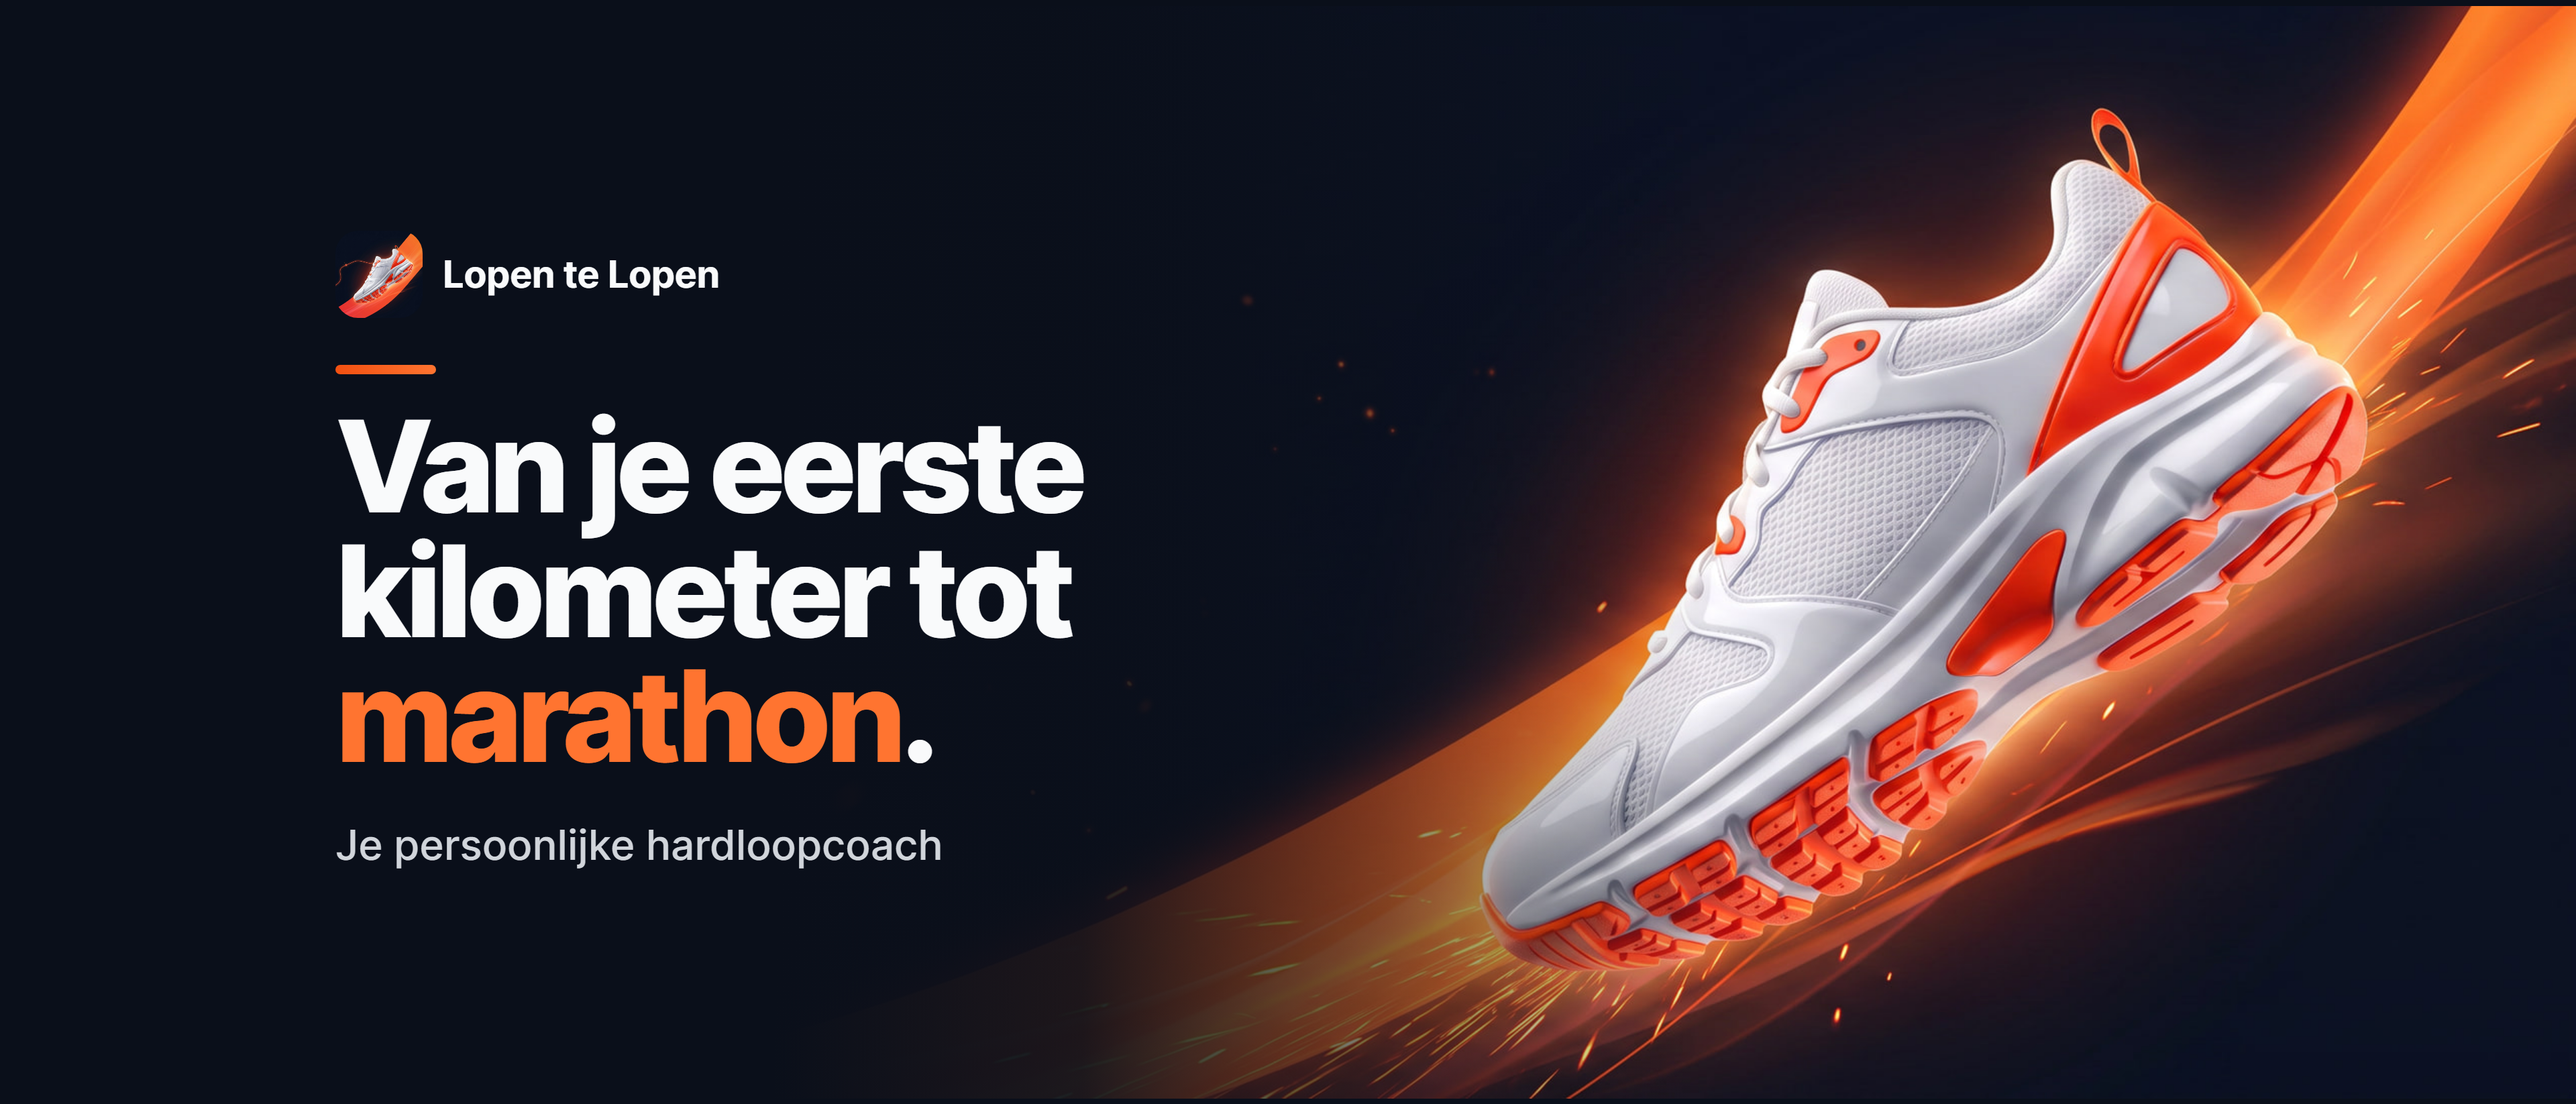
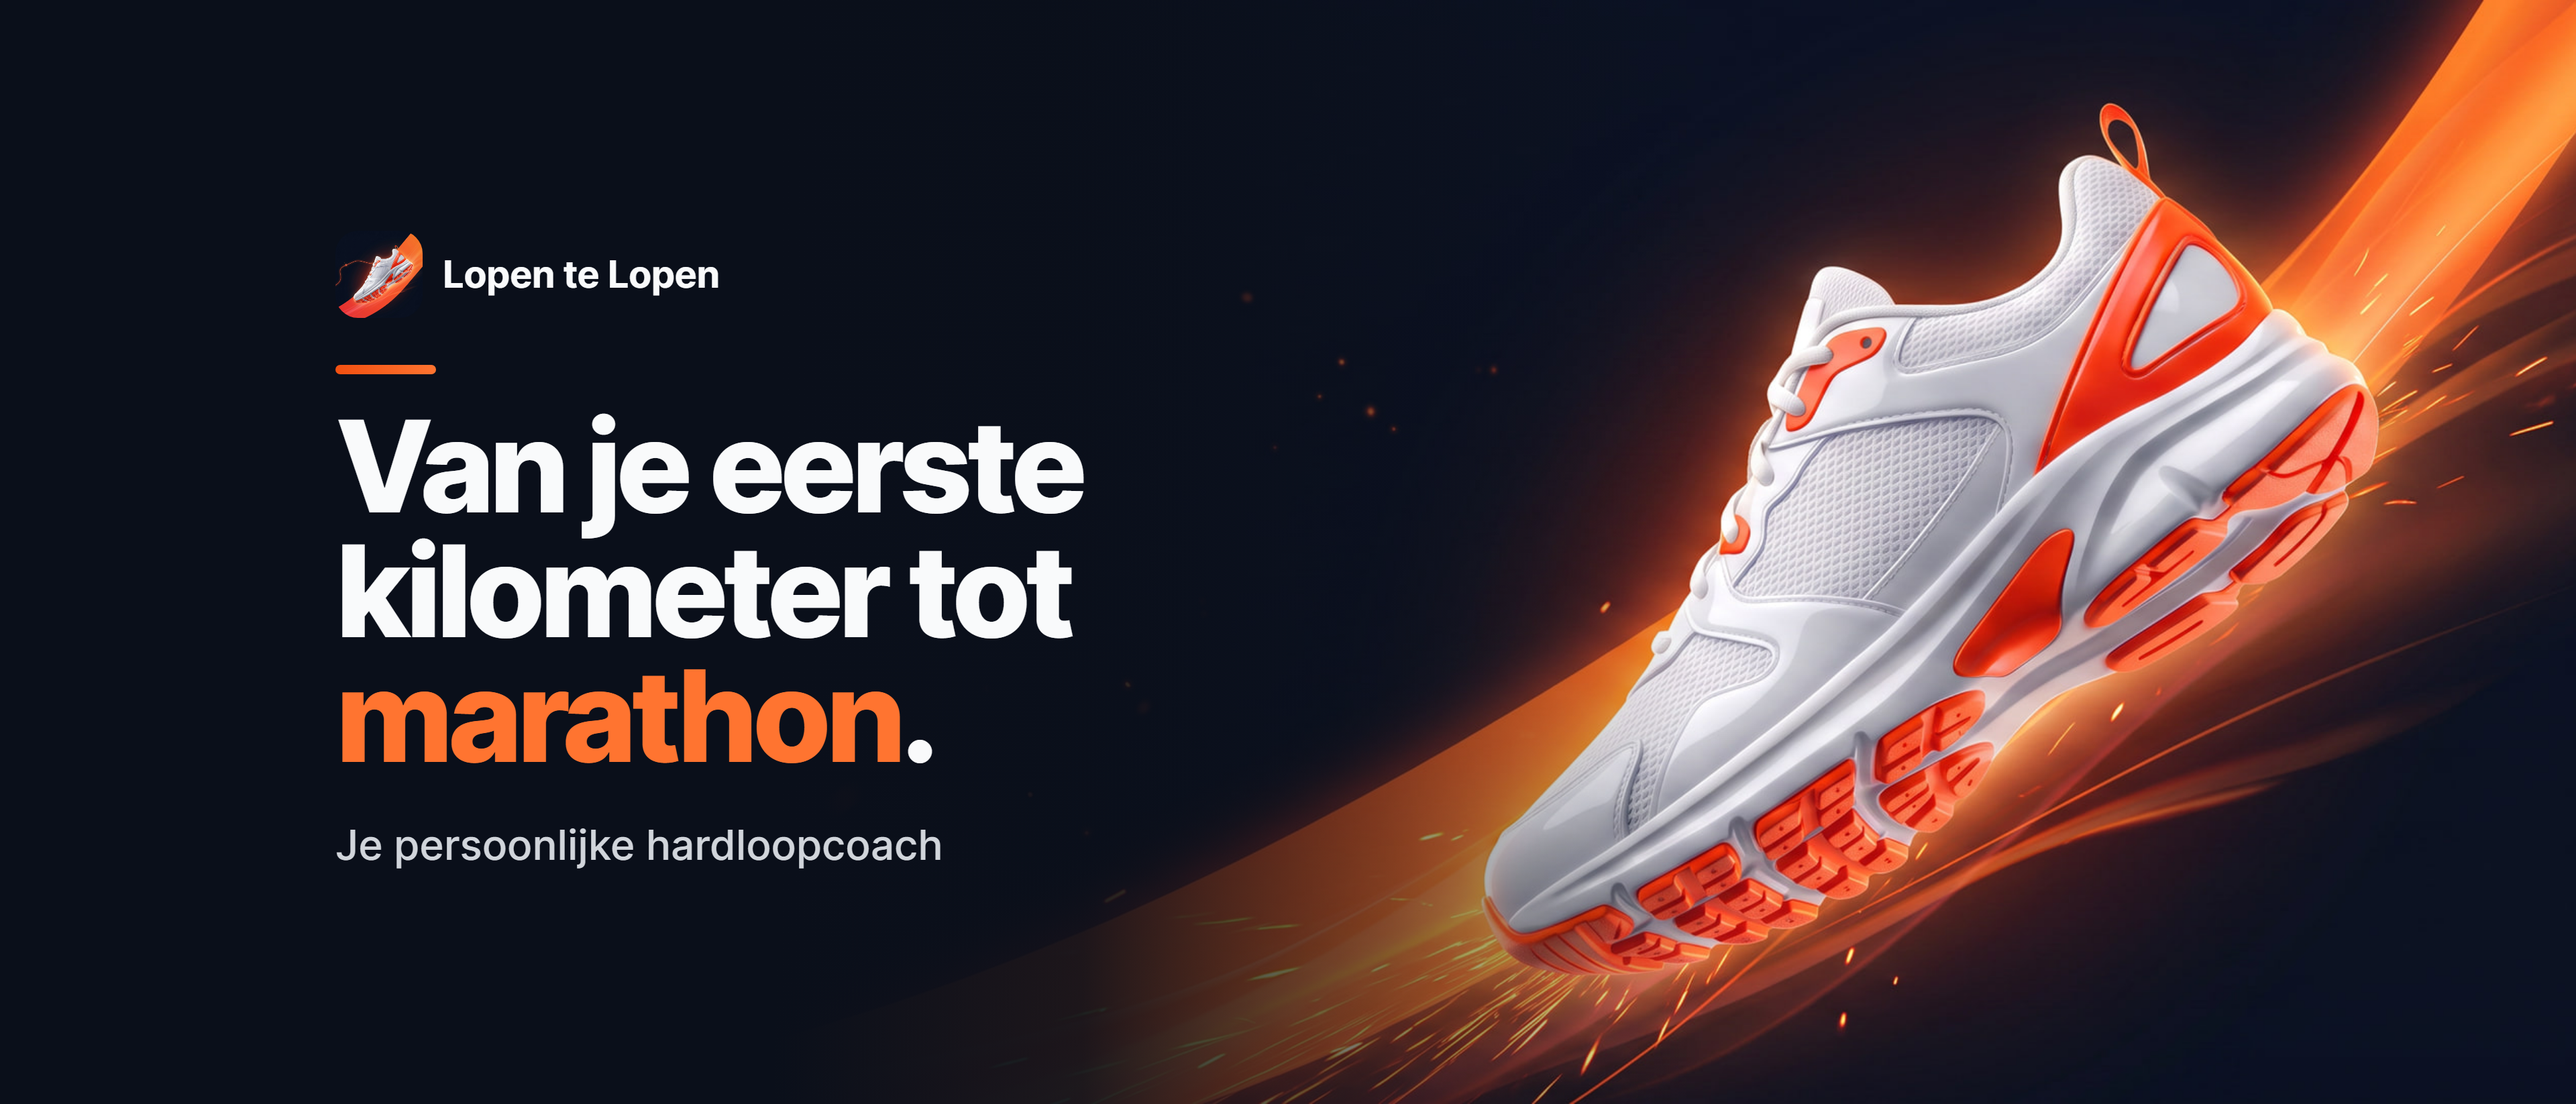
Fix: subregel App Store-header (5 km tot marathon) en zachte randen van de schoenplaat

diff --git a/scripts/brand-assets/app-store-header.html b/scripts/brand-assets/app-store-header.html
@@ -10,17 +10,20 @@
      (x 790..4450, y 370..2580). Daarbuiten alleen achtergrond. */
   html, body, .canvas { width: 5244px; height: 2950px; }
 
+  /* De plaat (5244x2225) is kleiner dan het canvas; een mask laat hem aan
+     boven- en rechterrand zacht wegvloeien, zodat er nergens een rechte rand staat. */
   .art {
-    background-image: url('plates/wide.jpg');
-    background-size: 5244px auto;
-    background-position: -520px 100%;
+    inset: auto;
+    left: -700px; top: 575px; width: 5600px; height: 2375px;
+    background: url('plates/wide.jpg') center / 100% 100% no-repeat;
+    -webkit-mask-image:
+      linear-gradient(180deg, transparent 0%, #000 45%),
+      linear-gradient(90deg, #000 0%, #000 91%, transparent 100%);
+    -webkit-mask-composite: source-in;
+    mask-composite: intersect;
   }
   .scrim {
-    background:
-      linear-gradient(90deg, #0A0F1A 0%, #0A0F1A 24%, rgba(10,15,26,0.93) 38%, rgba(10,15,26,0.55) 50%, rgba(10,15,26,0) 62%),
-      /* Plaat is 4724px breed en 2225px hoog: laat de randen wegvloeien. */
-      linear-gradient(270deg, #0A0F1A 0%, #0A0F1A 9%, rgba(10,15,26,0) 22%),
-      linear-gradient(180deg, #0A0F1A 0%, #0A0F1A 27%, rgba(10,15,26,0.55) 33%, rgba(10,15,26,0) 46%);
+    background: linear-gradient(90deg, #0A0F1A 0%, #0A0F1A 24%, rgba(10,15,26,0.93) 38%, rgba(10,15,26,0.55) 50%, rgba(10,15,26,0) 62%);
   }
 
   .content {
@@ -67,9 +70,9 @@
   // Variant via ?v=a of ?v=b (zie render.mjs).
   const V = {
     a: { h: 'Van je eerste<br>kilometer tot<br><em>marathon</em>.',
-         s: 'Je persoonlijke hardloopcoach,<br>met schema\'s van 5 km en 10 km.' },
+         s: 'Je persoonlijke hardloopcoach,<br>met schema\'s van 5 km tot marathon.' },
     b: { h: 'Een coach<br>in je oor,<br><em>elke run</em>.',
-         s: 'Je persoonlijke hardloopcoach,<br>van eerste kilometer tot marathon.' },
+         s: 'Je persoonlijke hardloopcoach,<br>met schema\'s van 5 km tot marathon.' },
   };
   const v = V[new URLSearchParams(location.search).get('v')] || V.a;
   document.getElementById('h').innerHTML = v.h;

diff --git a/scripts/brand-assets/app-store-search.html b/scripts/brand-assets/app-store-search.html
@@ -9,7 +9,7 @@
      ~75% breed x ~70% hoog (x 480..3360, y 250..1400). */
   html, body, .canvas { width: 3840px; height: 1646px; }
 
-  .art { background-image: url('plates/wide.jpg'); background-size: 3840px auto; background-position: 0 50%; }
+  .art { background-image: url('plates/wide.jpg'); background-size: cover; background-position: 50% 50%; }
   .scrim {
     background: linear-gradient(90deg, #0A0F1A 0%, #0A0F1A 30%, rgba(10,15,26,0.92) 42%, rgba(10,15,26,0.5) 54%, rgba(10,15,26,0) 66%);
   }
